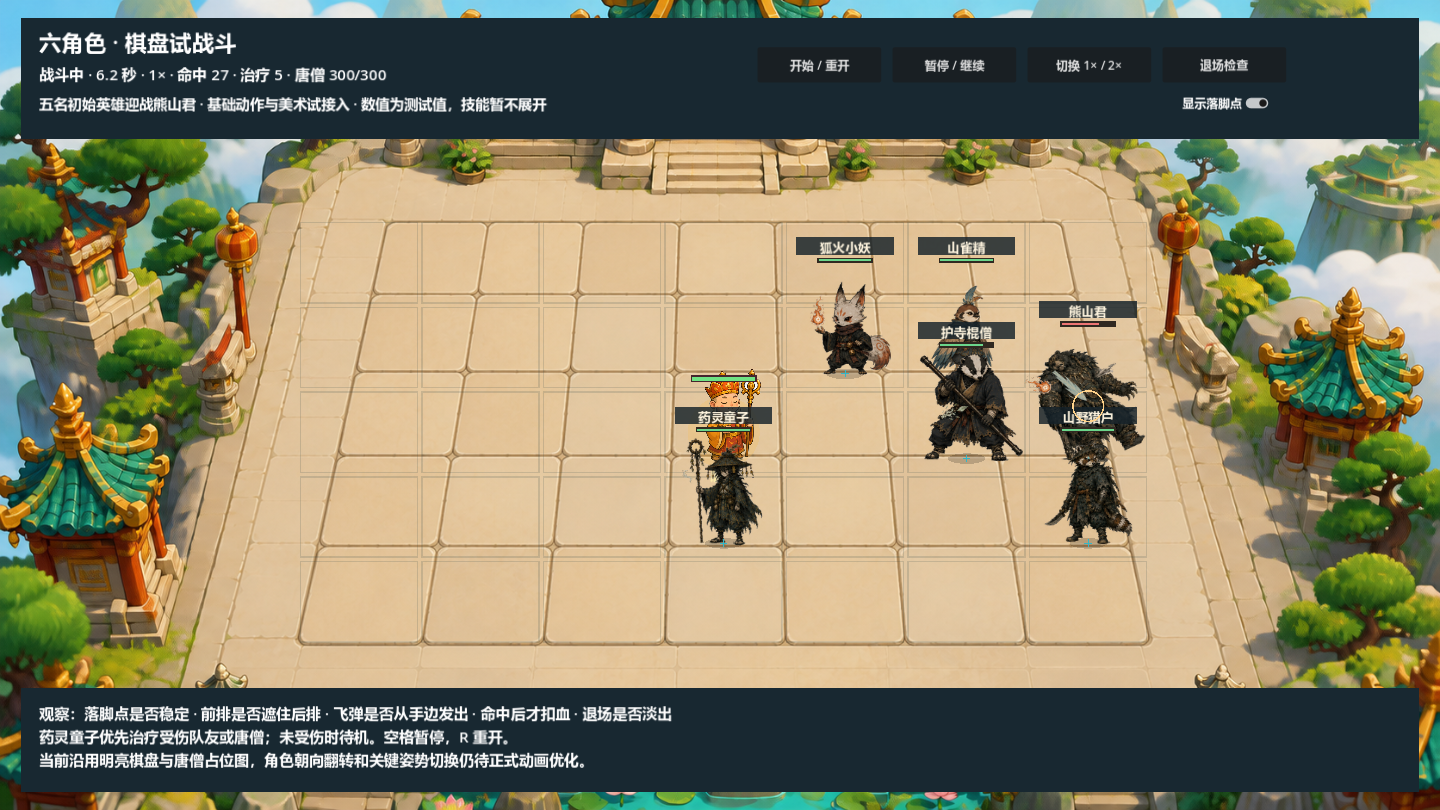
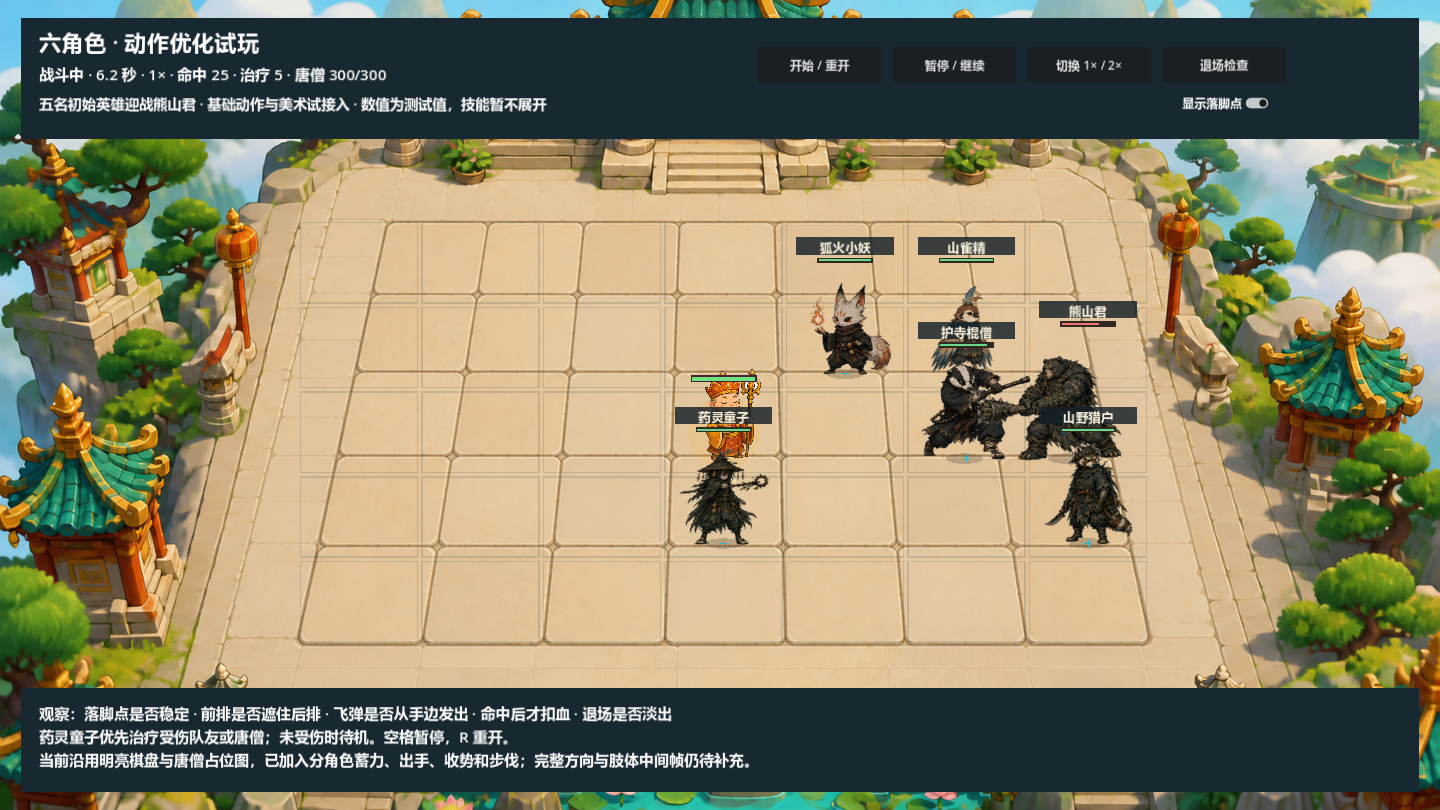
优化六角色动作节奏受击反馈与移动重心

diff --git a/godot-demo/art/reviews/six-role-battle/pack_motion_preview.py b/godot-demo/art/reviews/six-role-battle/pack_motion_preview.py
@@ -1,0 +1,13 @@
+"""Pack the actual engine captures into a lightweight review animation."""
+from pathlib import Path
+from PIL import Image
+
+root = Path(__file__).resolve().parent
+paths = sorted((root / '.capture').glob('[0-9][0-9][0-9].png'))
+assert len(paths) == 96, 'Run render_motion.gd at 1440x810 first'
+frames = [Image.open(path).convert('RGB') for path in paths]
+palette = frames[30].quantize(colors=256)
+indexed = [frame.quantize(palette=palette, dither=Image.Dither.NONE) for frame in frames]
+indexed[0].save(root / 'motion-preview.gif', save_all=True, append_images=indexed[1:],
+                duration=[83, 83, 84] * 32, loop=0, optimize=True, disposal=1)
+print('MOTION_GIF_OK: 96 frames, 8 seconds; game itself runs at display frame rate')

diff --git a/godot-demo/art/reviews/six-role-battle/README.md b/godot-demo/art/reviews/six-role-battle/README.md
@@ -1,6 +1,6 @@
 # 六角色棋盘试战斗
 
-更新时间：2026-09-08；职责：05｜美术试接入。
+更新时间：2026-09-10；职责：05｜美术试接入。
 
 ## 打开与操作
 
@@ -15,6 +15,16 @@ Windows 双击本目录 **`launch.cmd`**。它查找 `GODOT_BIN`、PATH 中的 G
 
 这是独立美术测试场景。原主场景、商店、四波流程和正式数据没有替换；测试从真实 Godot 棋盘走格与战斗开始，不是浏览器摆图。
 
+## 2026-09-10 动作优化
+
+- 增加每角色独立的蓄力、出手、收势和步伐配置（`motion.gd`）。猎户快、熊山君慢，棍僧较稳；远程施法先准备再发射。
+- 在脚底支点上增加待机呼吸、步伐起伏/落地缓冲、近战前探/回位；阴影随前探移动、随离地高度缩小。角色不再全部同步呼吸/出手。
+- 普通受击仍扣血，攻击和移动时改用短促震动/闪光，不重置当前动作；待机时保留受击姿势，重复受击不延长锁定。死亡始终进入退场。此规则仅作用于美术试验场景。
+- 出手和伤害事件共用角色动作时钟，发射点通过当前绘制变换计算；近战命中带 35 毫秒短暂停顿，死亡目标仍安全取消。内部计算步长不超过 1/120 秒，避免倍速跳过发射时刻。
+- 新增 `motion-preview.gif`：8 秒真实 Godot 连续渲染，压缩为 12 帧/秒供快速复核；实际试玩按显示帧率绘制。`render_motion.gd` 与 `pack_motion_preview.py` 可复现。
+
+这轮未重绘原画、未增加肢体中间帧。整张姿势的重心变化能改善节奏，但不能替代真实走路循环或完整挥棍动画。下一批优先补棍僧/猎户移动脚步与出手过渡，再处理狐火待机/攻击尾巴方向跳变。
+
 ## 本批接入
 
 - 继承现有 `scripts/game.gd`，复用 5×7 棋盘坐标、阻挡、有限追击与寻敌函数。
@@ -23,18 +33,19 @@ Windows 双击本目录 **`launch.cmd`**。它查找 `GODOT_BIN`、PATH 中的 G
 - 姿势覆盖待机、移动、普攻、受击、退场。按实际插值中的落脚点纵坐标排序，唐僧加入同一排序体系。
 - 朝向翻转围绕脚底锚点；同帧效果和发射位置随身体翻转，飞行效果朝向目标。独立飞弹发射时关闭同帧飞弹。
 - 普攻准备后生成伤害事件；远程飞行抵达目标才结算，目标死亡后清理投射物。治疗同样在抵达时生效。命中用通用圆环占位。
-- 受击中断尚未出手的攻击、固定 0.25 秒飞行和各角色属性都仅是本测试场景的提案。未实现或确认正式技能、正式战斗平衡、方向动画和目标追踪规则。
+- 普通受击不中断攻击、命中短暂停顿、固定 0.25 秒飞行和各角色属性都仅是本测试场景的提案。未实现或确认正式技能、正式战斗平衡、方向动画和目标追踪规则。
 
 ## 验证与发现
 
-`validation.json`：默认阵型 20.55 秒结束，唐僧存活，六角色均有实际攻击/治疗动作。记录 109 次攻击请求、55 次投射物发射、85 次伤害命中、19 次治疗、5 次取消；具体事件见 JSON。
+`validation.json`：默认阵型 20.70 秒结束，唐僧存活，六角色均有实际攻击/治疗动作。记录 109 次攻击请求、54 次投射物发射、88 次伤害命中、18 次治疗、2 次取消；具体事件见 JSON。
 
+- 2026-09-10 新增检查通过：30/60/120 FPS 的战斗时长和事件计数一致，移动准确落回目标点，完整攻击后回到脚底支点，普通受击不重置攻击，重复受击不锁死姿势，绘制发射点与飞弹初始位置一致，每次攻击只结算一次。
 - 自动测试通过：六角色加载、单场胜利、脚底排序、暂停冻结、施法时不立即扣血、单枚飞弹与抵达伤害、死亡目标清理、六角色五状态及完整淡出。
 - 主 Demo 回归：`SMOKE_TEST_OK`，`FULL_BATTLE_TEST_OK`；旧默认阵容 47.7 秒完成四波，唐僧 300/300，战利品 20。
 - 已通过实际 OpenGL 渲染导出开场、6.2 秒交战和退场截图，并逐张复核。截图不是浏览器模拟画布。
 - 六角色尺寸可放入当前格子，棍僧/狐火已清理的白底未再出现；近战接触和前后排序可观察。
 - **仍待改善**：暗色手绘角色与明亮棋盘/唐僧占位图差异明显；猎户、药灵的小尺寸细节偏密；前后相邻角色的头顶信息有遮挡。正式 UI 需优化血条/姓名显示条件。
-- **未验收**：移动仍为单姿势插值，左右翻转不等于完整方向动画；攻击与受击转换偏硬，瞬时接触感和每名角色武器端点需逐角色继续校准。测试通过不等于已完成正式动画或全部阵型遮挡验收。
+- **未验收**：移动仍以单姿势配合重心曲线实现，左右翻转不等于完整方向动画；姿势切换、每名角色武器端点与肢体过渡需继续校准。测试通过不等于已完成正式动画或全部阵型遮挡验收。
 - 受限运行环境有系统证书/着色器缓存告警，未影响本地 PNG 读取、测试或 OpenGL 截图。本轮没有浏览器自动访问。
 
 ## 复现
@@ -45,6 +56,8 @@ Windows 双击本目录 **`launch.cmd`**。它查找 `GODOT_BIN`、PATH 中的 G
 godot --path godot-demo res://art/reviews/six-role-battle/battle.tscn
 godot --headless --path godot-demo --script res://art/reviews/six-role-battle/verify.gd
 godot --path godot-demo --rendering-method gl_compatibility --script res://art/reviews/six-role-battle/render.gd
+godot --path godot-demo --rendering-method gl_compatibility --resolution 1440x810 --script res://art/reviews/six-role-battle/render_motion.gd
+python godot-demo/art/reviews/six-role-battle/pack_motion_preview.py
 ```
 
 截图：`board-start.png`、`board-combat.png`、`board-retreat.png`。此批没有更改原画或 PNG 生产素材。下一步优先复核用户实际体验，再由 06 决定如何把适配器与动作时钟整合到正式场景。

diff --git a/docs/workstreams/05-art-ui.md b/docs/workstreams/05-art-ui.md
@@ -1,6 +1,6 @@
 # 05｜美术 / 角色 / UI
 
-更新时间：2026-09-08
+更新时间：2026-09-10
 负责人聊天：`05｜美术 / 角色 / UI`
 
 ## 必读文件
@@ -12,6 +12,7 @@
 
 ## 当前状态
 
+- 2026-09-10 动作优化第一轮：新增六角色分角色动作曲线，调整蓄力/出手/收势、待机呼吸、步伐/落地缓冲、近战前探与回位，普通受击不再频繁重置攻击，发射点随绘制变换且与伤害共用动作时钟。修改独立试战斗 actor/battle/verify、验证 JSON、README、截图及本工作流；新增 motion 配置、连续渲染与 GIF 打包工具、8 秒实机动作 GIF，忽略中间捕获文件。验证：专项全通过，30/60/120 FPS 均 20.70 秒且事件计数相同；原冒烟/四波回归通过，连续画面采样复核，落地点无累积漂移；熊山君本局受击姿势切入从 69 次降至 8 次，伤害仍照常结算。新确认事项：用户认为基本功能具备、要求继续优化动作，不代表正式动画验收；待确认：用户实际动作观感；阻塞/限制：仍缺真实肢体中间帧和方向过渡，程序曲线不能替代走路循环；推荐下一步：补棍僧/猎户脚步和出手过渡，随后处理狐火尾巴朝向切换。原画/生产 PNG、主战斗与正式数值未修改。
 - 2026-09-08 六角色棋盘试战斗完成：新增 `godot-demo/art/reviews/six-role-battle/` 独立 Godot 场景、角色适配器、Windows 启动器、测试/渲染工具、验证 JSON、三张实机截图与 README，更新原审核入口说明及本工作流。复用主 Demo 棋盘/走格/寻敌，五名初始英雄对战熊山君，接通基础姿势、治疗、抵达命中、脚底排序、暂停/倍速/退场。验证：默认阵型 20.55 秒结束，六名角色均参与；专项自动检查无失败，原冒烟和四波战斗回归通过，三张 OpenGL 截图已复核。新确认事项：用户授权六角色上棋盘试战斗，无正式技能/数值新定案；待确认：用户体验、近战端点/承重、方向过渡及姓名遮挡；阻塞：无阻塞独立试玩的问题，画风和值域差异仍明显；推荐下一步：用户运行试玩，06 评估正式整合。详细证据与限制见新场景 README。未改主场景、核心脚本、其他职责工作流或角色原图。
 - 2026-09-08 狐火清底修复：从确认版动作稿重新提取 6 身体帧、3 同帧 VFX 与 3 紧凑效果，清理衣尾封闭残底、受击地线、退场火焰地线，保留白毛/亮芯；更新 2 图集、分层/深浅底/修复对照图、manifest/README，新增重建工具，同步两审核页及统一预览配置/说明、Godot 审核结果和本工作流。验证：六帧静态深浅底复核通过；Godot 14 图/12 格无失败，6 格身体与独立 VFX 无明显重叠，3 效果对齐精确一致；页面逻辑 360+60 组合与 42/42、12/12 检查通过（非浏览器模拟）。新确认事项：无新增造型/玩法定案；待确认：用户视觉复核、动态承重/对齐、实战投射物与排序；阻塞：无阻塞本批静态修复的问题，蓄力手部火焰仍粘连、朝向切换/过渡帧限制保留；推荐下一步：06 试接入六角色。详细说明见狐火素材包 README。
 - 2026-09-08 棍僧残底修复：从已确认八动作稿重新提取六帧，去除腿间、武器围合区及轮廓灰白残底，并补回旧裁切遗漏的蓄力棍头/横扫脚部；保留白毛。修改棍僧 6 单帧、图集、深浅底预览、局部对比图、manifest/README，新增重建工具并更新统一预览配置/说明。验证：原图哈希不变，6 帧 RGBA/图集一致/边界透明、3 个封闭残底点透明检查通过，六帧深浅底视觉复核通过；本轮未做浏览器或 Godot 实战验收。新确认事项：无新增造型定案，未采用六姿势候选替换基准；待确认：用户画面复核及动态脚底对齐；阻塞：狐火旧清底问题仍在，棍僧无阻塞本次静态修复的问题；推荐下一步：刷新六角色入口复核，再修复狐火。详情见棍僧样板 README。
@@ -176,6 +177,8 @@
 - 推荐用户复核棍僧与狐火清底结果，由程序工作流试接入六角色并验证动态落脚点、按行排序及投射物移动；需要连续动画时再补中间帧。
 
 ## 待总控同步
+
+新增待同步（2026-09-10 动作优化）：独立六角色试玩新增分角色重心与动作时序、受击防重置、随动作发射点；测试和原 Demo 回归通过，用户观感尚待复核。此为试验表现规则，不向正式战斗自动固化；下一阶段瓶颈是脚步/手臂中间帧和方向一致性。
 
 新增待同步（2026-09-08 棋盘试战斗）：六角色已进入独立 Godot 美术测试场景，基础战斗闭环/专项测试通过，主 Demo 回归无破坏；入口 `godot-demo/art/reviews/six-role-battle/launch.cmd`。角色与棋盘画风差异、近战端点/方向过渡、前后姓名遮挡仍待优化；仅试验属性与基础动作，不代表第一章技能或平衡定案。正式整合由 06 继续评估。
 
